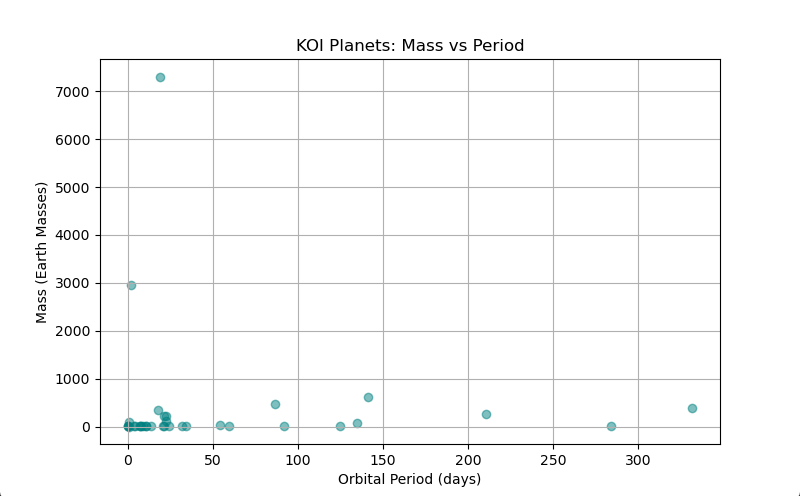
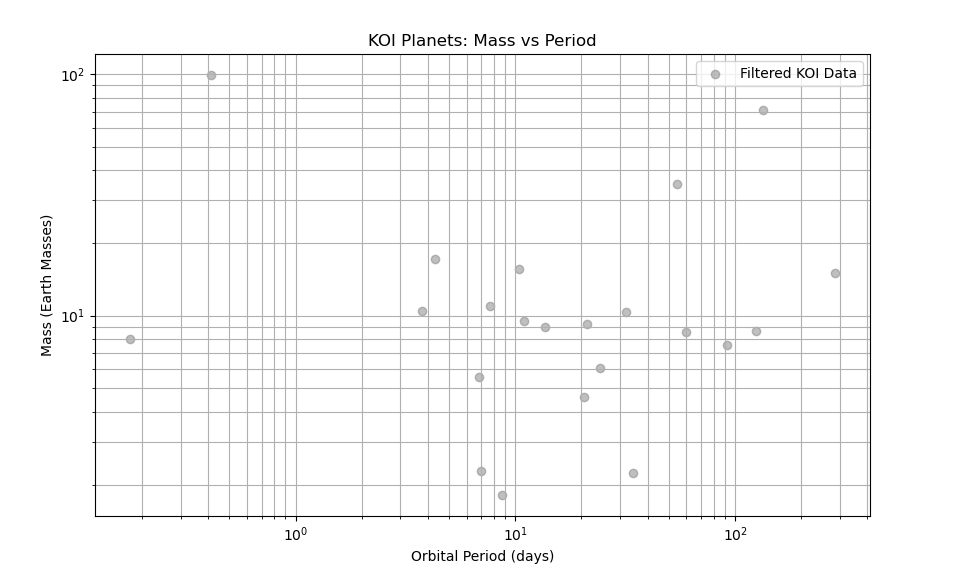
final submission

Changed region(s): [[0.0312, 0.0605, 0.9062, 0.998]]

diff --git a/final_project/final_project_1.py b/final_project/final_project_1.py
@@ -15,13 +15,27 @@ koi = koi[['pl_name', 'pl_orbper', 'pl_bmasse', 'pl_rade']].dropna()
 koi.columns = ['Name', 'Period', 'Mass', 'Radius']
 
 # Plot 1: Mass vs period 
-plt.figure(figsize=(8, 5))
-plt.scatter(koi['Period'], koi['Mass'], alpha=0.5, color='teal')
+koi_filtered = koi[(koi['Mass'] > 1) & (koi['Mass'] < 100) & (koi['Period'] > 0)]
+#plt.figure(figsize=(8, 5))
+#plt.scatter(koi_filtered['Period'], koi_filtered['Mass'], alpha=0.5, color='teal')
+#plt.xlabel('Orbital Period (days)')
+#plt.ylabel('Mass (Earth Masses)')
+#plt.title('KOI Planets: Mass vs Period')
+#plt.grid(True)
+#plt.show()
+plt.figure(figsize=(10, 6))
+plt.scatter(koi_filtered['Period'], koi_filtered['Mass'], alpha=0.5, label='Filtered KOI Data', color='gray')
+
+plt.xscale('log')
+plt.yscale('log')
+
 plt.xlabel('Orbital Period (days)')
 plt.ylabel('Mass (Earth Masses)')
 plt.title('KOI Planets: Mass vs Period')
-plt.grid(True)
+plt.legend()
+plt.grid(True, which='both')
 plt.show()
+
 
 # Plot 2: Period vs Radius (log scale) 
 plt.figure(figsize=(8, 5))
